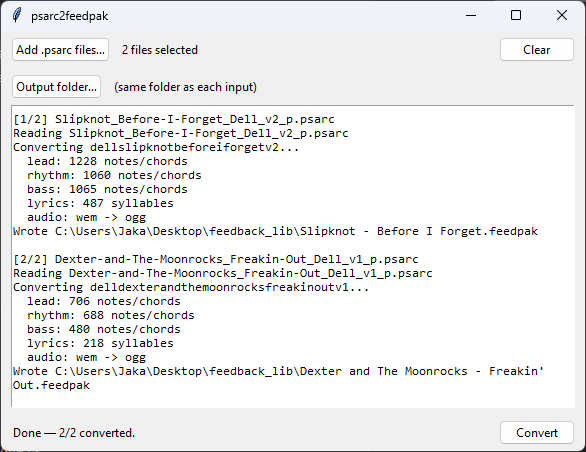
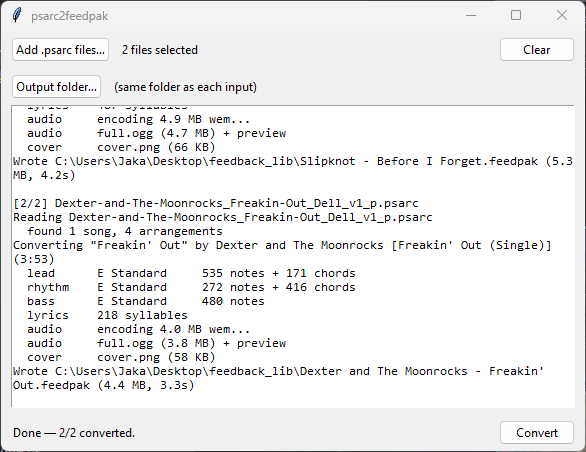
README: add a TL;DR, refresh the screenshot, fix release wording
Releases ship a zip, not an installer.

diff --git a/README.md b/README.md
@@ -4,6 +4,12 @@ Turn your Rocksmith 2014 songs (`.psarc`) into
 [feedpak](https://github.com/got-feedback/feedpak-spec) packages you can play in
 [got-feedBack](https://github.com/got-feedback).
 
+**TL;DR:** download the
+[latest release](https://github.com/carelesshangman/psarc2feedpak/releases/latest),
+unzip it, run `psarc2feedpak.exe`, add your `.psarc` files and hit **Convert**.
+Each song comes out as an `Artist - Title.feedpak` you can drop straight into
+got-feedBack.
+
 ![The app after converting two songs](docs/gui-done.png)
 
 Notes, chords, slides, bends, lyrics, album art and audio all come across. The
@@ -11,10 +17,10 @@ chart is flattened to the full (hardest) difficulty.
 
 ## Getting started
 
-1. Grab the installer from the
+1. Grab the zip from the
    [Releases](https://github.com/carelesshangman/psarc2feedpak/releases) page.
    It bundles everything you need (ffmpeg, vgmstream, no Python required).
-2. Run it and open **psarc2feedpak** from the Start menu.
+2. Unzip it anywhere and run **psarc2feedpak.exe**.
 3. Click **Add .psarc files…** and pick your songs. You can select as many as
    you like.
 4. Optionally click **Output folder…** to choose where the `.feedpak` files
